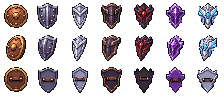
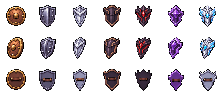
Correct shield pixel scale and offhand placement
Draw packed shield sprites directly on the character pixel grid without a second resize. Move the near shield beside the forearm and remove the artificial far-side displacement; allow natural body occlusion. Refresh asset caches and retain gameplay logic.

diff --git a/public/wardrobe-preview-v5.html b/public/wardrobe-preview-v5.html
@@ -1,4 +1,4 @@
-<!doctype html><html lang="en"><meta charset="utf-8"><meta name="viewport" content="width=device-width,initial-scale=1"><title>Myrren · Armour fitting</title><style>body{margin:0;background:#13251f;color:#f0dfb9;font:16px system-ui}main{max-width:1440px;margin:auto;padding:28px}h1{font:32px Georgia;margin:0 0 10px}p{color:#b8c5b8;margin:8px 0 20px}.bar,.slots{display:flex;gap:9px;flex-wrap:wrap;margin:16px 0}button,select{font:inherit;background:#263e33;color:#f0dfb9;border:1px solid #6e805c;border-radius:8px;padding:9px 13px;cursor:pointer}button[aria-pressed=true]{background:#536850;border-color:#d9c58d}label{display:flex;align-items:center;gap:6px}.slots label{flex-direction:column;align-items:start;font-size:13px}.slots select{min-width:145px}canvas{display:block;width:100%;image-rendering:pixelated;background:#1c3127;border-radius:12px}footer{margin-top:18px;color:#a9b5aa;font-size:14px}.views{margin:0 0 18px}a{color:#d6c18b}</style><main><h1>Tales of Myrren · Armour fitting</h1><p>Seven armour sets using complete worn-character poses. Try full sets, remove pieces, or mix materials. This preview does not change your live save.</p><div class="bar views"><button id="allSets" aria-pressed="true">All seven sets</button><button id="fitting" aria-pressed="false">Fitting room</button><label>View <select id="direction"><option value="0">Front</option><option value="1">Left</option><option value="2">Right</option><option value="3">Back</option></select></label></div><div class="bar" id="actions"></div><div id="gearControls" hidden><div class="bar" id="presets"></div><div class="slots" id="slots"></div></div><canvas id="sheet" width="1400" height="360" aria-label="Armour animation preview"></canvas><footer id="status">Loading complete armour artwork…</footer></main><script src="/wardrobe-v5.js?v=2"></script><script src="/approved-character.js?v=6"></script><script>
+<!doctype html><html lang="en"><meta charset="utf-8"><meta name="viewport" content="width=device-width,initial-scale=1"><title>Myrren · Armour fitting</title><style>body{margin:0;background:#13251f;color:#f0dfb9;font:16px system-ui}main{max-width:1440px;margin:auto;padding:28px}h1{font:32px Georgia;margin:0 0 10px}p{color:#b8c5b8;margin:8px 0 20px}.bar,.slots{display:flex;gap:9px;flex-wrap:wrap;margin:16px 0}button,select{font:inherit;background:#263e33;color:#f0dfb9;border:1px solid #6e805c;border-radius:8px;padding:9px 13px;cursor:pointer}button[aria-pressed=true]{background:#536850;border-color:#d9c58d}label{display:flex;align-items:center;gap:6px}.slots label{flex-direction:column;align-items:start;font-size:13px}.slots select{min-width:145px}canvas{display:block;width:100%;image-rendering:pixelated;background:#1c3127;border-radius:12px}footer{margin-top:18px;color:#a9b5aa;font-size:14px}.views{margin:0 0 18px}a{color:#d6c18b}</style><main><h1>Tales of Myrren · Armour fitting</h1><p>Seven armour sets using complete worn-character poses. Try full sets, remove pieces, or mix materials. This preview does not change your live save.</p><div class="bar views"><button id="allSets" aria-pressed="true">All seven sets</button><button id="fitting" aria-pressed="false">Fitting room</button><label>View <select id="direction"><option value="0">Front</option><option value="1">Left</option><option value="2">Right</option><option value="3">Back</option></select></label></div><div class="bar" id="actions"></div><div id="gearControls" hidden><div class="bar" id="presets"></div><div class="slots" id="slots"></div></div><canvas id="sheet" width="1400" height="360" aria-label="Armour animation preview"></canvas><footer id="status">Loading complete armour artwork…</footer></main><script src="/wardrobe-v5.js?v=3"></script><script src="/approved-character.js?v=6"></script><script>
 const sheet=document.getElementById('sheet'),actions=document.getElementById('actions'),presets=document.getElementById('presets'),slots=document.getElementById('slots'),allSets=document.getElementById('allSets'),fitting=document.getElementById('fitting'),gearControls=document.getElementById('gearControls'),direction=document.getElementById('direction'),statusEl=document.getElementById('status');
 const mats=[['None',0],['Bronze',2],['Iron',3],['Steel',4],['Black Iron',5],['Obsidianite',7],['Myrrenite',6],['Starsteel',8]],levels=[1,10,20,30,40,55,70],modes=['Idle','Run','Attack','Hurt','Death'],dirs=['Front','Left','Right','Back'];let mode=0,start=performance.now(),paused=false,frozen=0,slow=false,all=true,hero=null,gear=[3,3,3,3,3,3],dye=null;const fields=[],buttons=[];
 function clock(t){return paused?frozen:(t-start)/(slow?3:1)}function setMode(i){mode=i;start=performance.now();frozen=0;buttons.forEach((b,j)=>b.setAttribute('aria-pressed',String(i===j)))}modes.forEach((name,i)=>{const b=document.createElement('button');b.textContent=name;b.setAttribute('aria-pressed',String(i===0));b.onclick=()=>setMode(i);buttons.push(b);actions.append(b)});const pause=document.createElement('button');pause.textContent='Pause';pause.onclick=()=>{if(!paused){frozen=clock(performance.now());paused=true}else{start=performance.now()-frozen*(slow?3:1);paused=false}pause.textContent=paused?'Play':'Pause'};actions.append(pause);for(const delta of[-1,1]){const b=document.createElement('button');b.textContent=delta<0?'Previous frame':'Next frame';b.onclick=()=>{const age=clock(performance.now()),frame=mode===1?Math.floor(age/75)%6:Math.floor(age/75)%6,index=(frame+delta+6)%6;paused=true;pause.textContent='Play';frozen=mode===2?[0,55,100,150,220,280][index]:mode===4?[0,150,280,430,600,800][index]:index*75};actions.append(b)}const slowLabel=document.createElement('label'),slowBox=document.createElement('input');slowBox.type='checkbox';slowLabel.append(slowBox,'Slow motion');slowBox.onchange=()=>{const age=clock(performance.now());slow=slowBox.checked;start=performance.now()-age*(slow?3:1)};actions.append(slowLabel);

diff --git a/public/wardrobe-v5.js b/public/wardrobe-v5.js
@@ -10,10 +10,10 @@
  for(const [mat,key]of Object.entries(KEYS)){const image=new Image();image.onload=()=>{if((image.naturalWidth||image.width)!==W||(image.naturalHeight||image.height)!==H){failed=true;return}const c=make(W,H),x=c.getContext('2d');x.imageSmoothingEnabled=false;x.drawImage(image,0,0);art[mat]=c;data[mat]=x.getImageData(0,0,W,H).data;loaded()};image.onerror=()=>{failed=true};image.src='/wardrobe-'+key+'-v5.png'}
  const ownership=new Image();ownership.onload=()=>{if((ownership.naturalWidth||ownership.width)!==W||(ownership.naturalHeight||ownership.height)!==H){failed=true;return}const c=make(W,H),x=c.getContext('2d');x.drawImage(ownership,0,0);owners=x.getImageData(0,0,W,H).data;loaded()};ownership.onerror=()=>{failed=true};ownership.src='/wardrobe-ownership-v5.png';
  const rgb=h=>h.match(/[a-f\d]{2}/gi).map(n=>parseInt(n,16));
- const shieldAtlas=new Image();let shieldArt=null;shieldAtlas.onload=()=>{if((shieldAtlas.naturalWidth||shieldAtlas.width)!==224||(shieldAtlas.naturalHeight||shieldAtlas.height)!==96){failed=true;return}shieldArt=make(224,96);shieldArt.getContext('2d').drawImage(shieldAtlas,0,0);loaded()};shieldAtlas.onerror=()=>{failed=true};shieldAtlas.src='/shields-approved-v1.png';
+ const shieldAtlas=new Image();let shieldArt=null;shieldAtlas.onload=()=>{if((shieldAtlas.naturalWidth||shieldAtlas.width)!==224||(shieldAtlas.naturalHeight||shieldAtlas.height)!==96){failed=true;return}shieldArt=make(224,96);shieldArt.getContext('2d').drawImage(shieldAtlas,0,0);loaded()};shieldAtlas.onerror=()=>{failed=true};shieldAtlas.src='/shields-approved-v1.png?v=2';
  function shield(mat,view=0){const key=mat+'/'+view;if(shields.has(key))return shields.get(key);const col=ORDER.indexOf(mat);if(col<0||!shieldArt)return null;const c=make(32,32),x=c.getContext('2d');x.imageSmoothingEnabled=false;x.drawImage(shieldArt,col*32,view*32,32,32,0,0,32,32);shields.set(key,c);return c}
  function poseDirection(row,col){return row===0?(col===1?1:col===2?2:col===3||col===5?3:0):row===1?0:row===2?1:row===3?2:row===4||row===9?3:row===6||row===8?1:2}
- function shieldAt(ctx,g,f){const dir=poseDirection(f.row,f.col),a=shield(g[4],dir===3?2:dir===1||dir===2?1:0),fallen=(f.row===7||f.row===8)&&f.col>=3;if(!a)return;ctx.save();ctx.imageSmoothingEnabled=false;ctx.beginPath();ctx.rect(f.col*64+1,f.row*64+1,62,60);ctx.clip();ctx.translate(f.col*64,f.row*64);if(fallen){ctx.translate(f.hip.x,49);ctx.rotate(dir===1?-Math.PI/2:Math.PI/2);ctx.drawImage(a,-12,-12,24,24)}else{const hand=f.hands[0],w=dir===1||dir===2?20:24;ctx.drawImage(a,Math.round(hand.x-w/2-(dir===2?7:0)),Math.round(hand.y-12),w,24)}ctx.restore()}
+ function shieldAt(ctx,g,f){const dir=poseDirection(f.row,f.col),a=shield(g[4],dir===3?2:dir===1||dir===2?1:0),fallen=(f.row===7||f.row===8)&&f.col>=3;if(!a)return;ctx.save();ctx.imageSmoothingEnabled=false;ctx.beginPath();ctx.rect(f.col*64+1,f.row*64+1,62,60);ctx.clip();ctx.translate(f.col*64,f.row*64);if(fallen){ctx.translate(f.hip.x,47);ctx.rotate(dir===1?-Math.PI/2:Math.PI/2);ctx.drawImage(a,-16,-16)}else{const hand=f.hands[0];ctx.drawImage(a,Math.round(hand.x-16-(dir===2?0:3)),Math.round(hand.y-16))}ctx.restore()}
  function compose(fallback,gear,dye){if(!ready)return fallback;const g=normalize(gear),materials=SLOTS.map(i=>g[i]);if(!materials.some(Boolean)&&!g[4])return art[0];const same=materials.every(m=>m&&m===materials[0]),uniform=same?materials[0]:0;if(uniform&&!g[4]&&!dye)return art[uniform];const key=g.join(',')+'/'+(dye?[dye.D,dye.M,dye.H].join(','):'');if(cache.has(key))return cache.get(key);const c=make(W,H),ctx=c.getContext('2d');ctx.imageSmoothingEnabled=false;const out=ctx.createImageData(W,H),d=out.data,base=data[0],dyeRgb=dye?[rgb(dye.D),rgb(dye.M),rgb(dye.H)]:null;
  if(uniform&&!dye)ctx.drawImage(art[uniform],0,0);else{
  for(let i=0;i<d.length;i+=4){const owner=owners[i]===0&&g[0]&&!owners[i+1]?1:owners[i],mat=g[SLOTS[owner]],source=data[mat||0];if(!source[i+3]&&!base[i+3])continue;let at=i,row,col,frame,x,y;

diff --git a/public/index.html b/public/index.html
@@ -65,7 +65,7 @@
 <script src="/v31-character.js?v=2"></script>
 <script src="/v31-feet.js?v=1"></script>
 <script src="/v31-equipment.js?v=9"></script>
-<script src="/wardrobe-v5.js?v=2"></script>
+<script src="/wardrobe-v5.js?v=3"></script>
 <script src="/approved-character.js?v=6"></script>
 <script src="/myrren-game.js?v=11"></script>
 </body>
